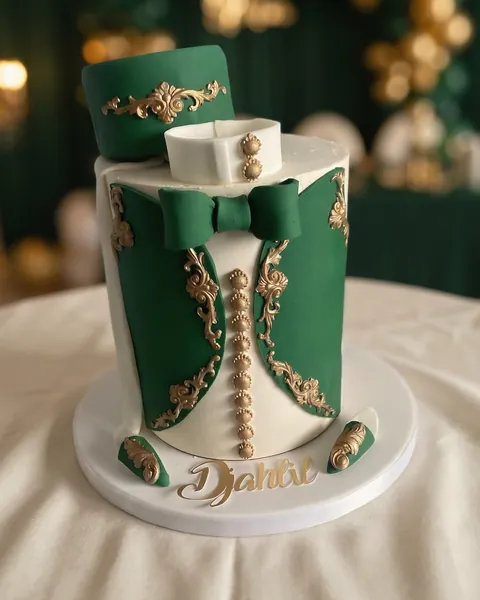
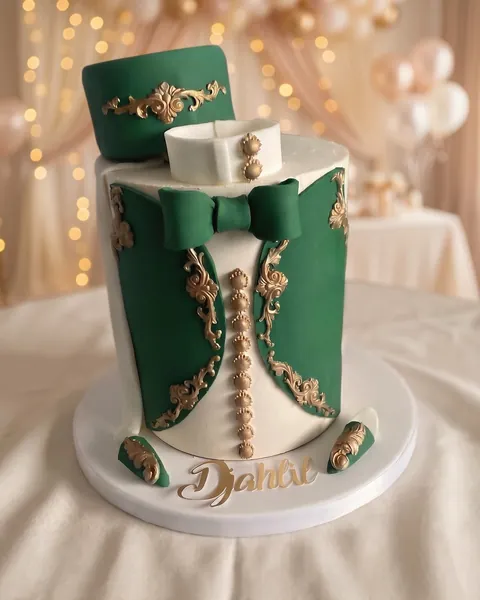
Tahara : fond clair comme les autres photos phares ; les 4 réponses en grille 2×2 sur téléphone
Claude-Session: https://claude.ai/code/session_01JgPEsJ48koGoxerrymP9XH

diff --git a/css/style.css b/css/style.css
@@ -279,9 +279,14 @@ img{display:block;max-width:100%}
   .puces.saveurs{grid-template-columns:repeat(3,1fr)}
   .retours{grid-template-columns:1fr;gap:20px}
 }
-@media (max-width:400px){
-  .grille4{grid-template-columns:1fr}
-  .grille4>div+div{border-left:0;padding-left:0;border-top:1px solid var(--trait)}
+@media (max-width:600px){
+  .grille4{grid-template-columns:1fr 1fr}
+  .grille4>div{padding:22px 14px 22px 0}
+  .grille4>div:nth-child(2n){border-left:1px solid var(--trait);padding-left:14px;padding-right:0}
+  .grille4>div:nth-child(3){border-left:0;padding-left:0}
+  .grille4>div:nth-child(n+3){border-top:1px solid var(--trait)}
+  .reponses .grille4 .chiffre{font-size:clamp(30px,10vw,44px)}
+  .reponses .grille4 .detail{margin-top:10px;font-size:14px;max-width:none}
 }
 
 @media (prefers-reduced-motion:reduce){
